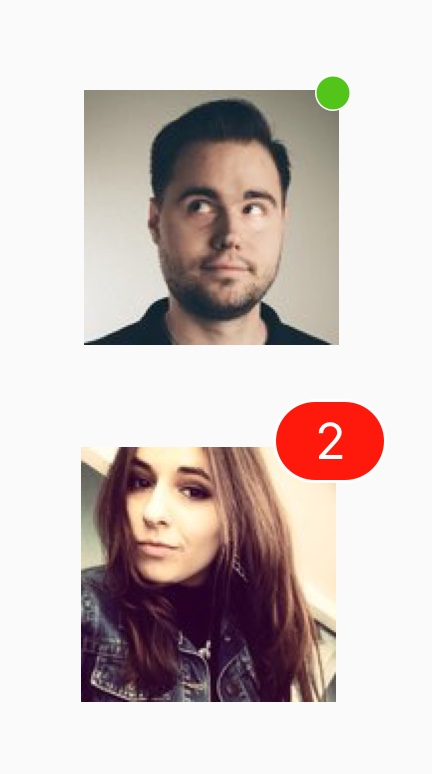
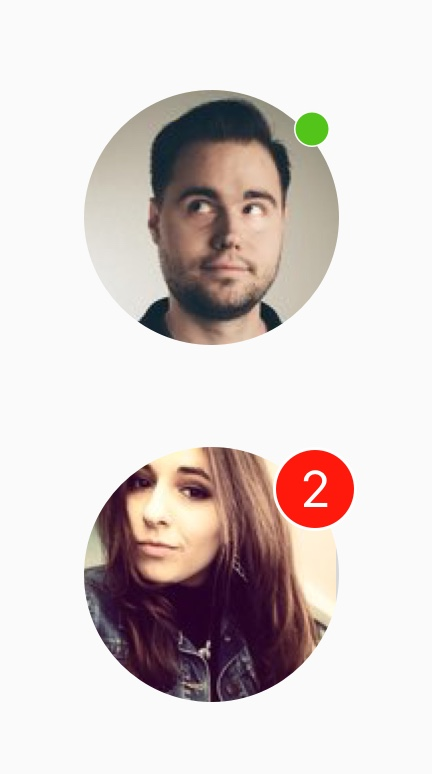
fix: Badges are now initially circular
Badges when they have a few characters are circuclar. As the value is
longer, they'll keep the same height and grow horizontally.

diff --git a/src/badge/badge.js b/src/badge/badge.js
@@ -54,30 +54,32 @@ Badge.defaultProps = {
   status: 'primary',
 };
 
+const size = 26;
+const miniSize = 12;
+
 const styles = {
   badge: (theme, status) => ({
-    minWidth: 26,
-    height: 26,
-    borderRadius: 13,
+    alignSelf: 'center',
+    minWidth: size,
+    height: size,
+    borderRadius: size / 2,
     alignItems: 'center',
     justifyContent: 'center',
     backgroundColor: theme.colors[status],
-    paddingVertical: 3,
-    paddingHorizontal: 12,
     borderWidth: StyleSheet.hairlineWidth,
     borderColor: '#fff',
   }),
   miniBadge: {
     paddingHorizontal: 0,
     paddingVertical: 0,
-    minWidth: 12,
-    width: 12,
-    height: 12,
-    borderRadius: 6,
+    minWidth: miniSize,
+    height: miniSize,
+    borderRadius: miniSize / 2,
   },
   text: {
-    fontSize: 14,
+    fontSize: 16,
     color: 'white',
+    paddingHorizontal: 8,
   },
 };
 

diff --git a/docs/badge.md b/docs/badge.md
@@ -45,6 +45,7 @@ import { Avatar, Badge } from 'react-native-elements'
 // Avatar with mini badge
 <View>
   <Avatar
+    rounded
     source={{
       uri: 'https://randomuser.me/api/portraits/men/41.jpg',
     }}
@@ -53,7 +54,7 @@ import { Avatar, Badge } from 'react-native-elements'
 
   <Badge
     status="success"
-    containerStyle={{ position: 'absolute', top: -5, right: -5 }}
+    containerStyle={{ position: 'absolute', top: -4, right: -4 }}
   />
 </View>
 ```
